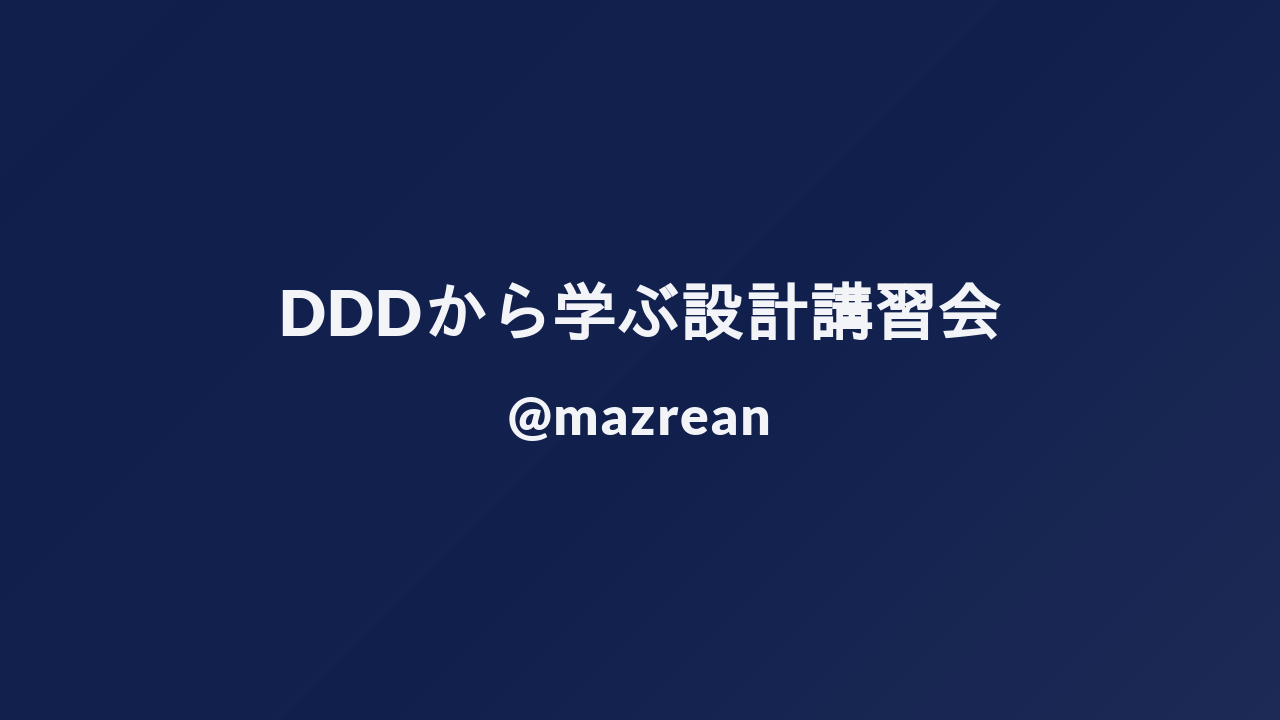
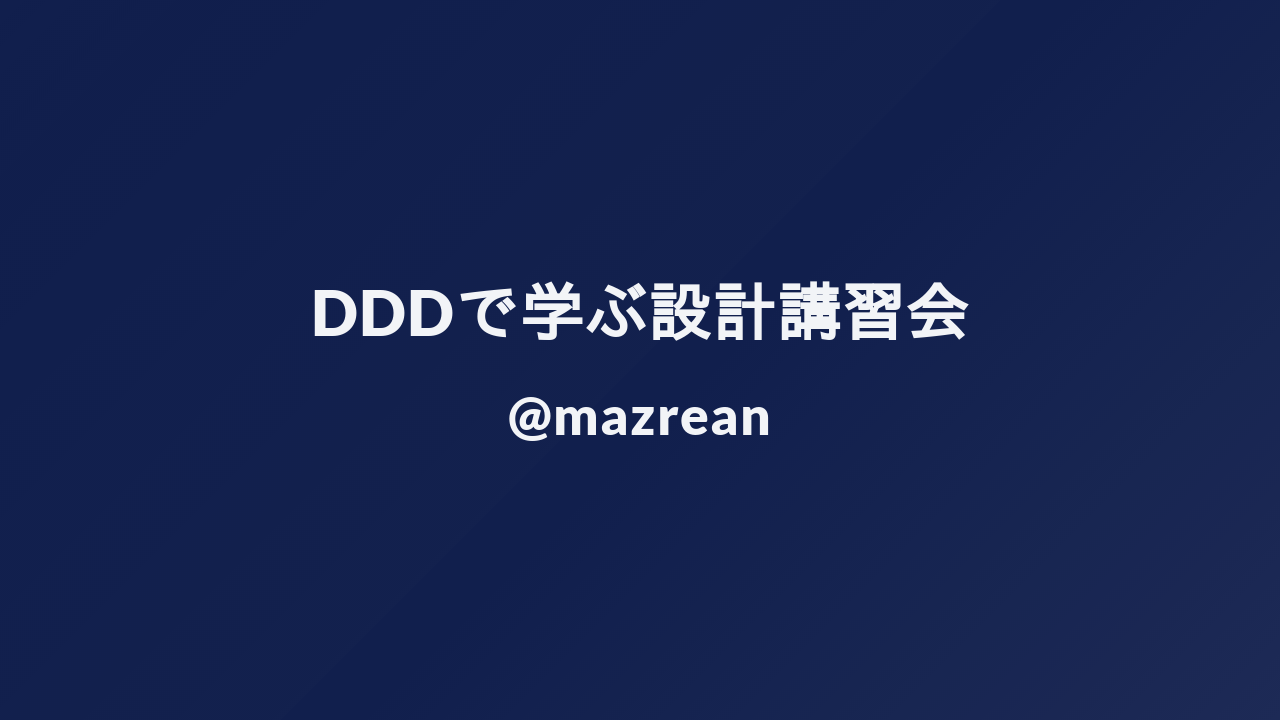
slide update

Changed region(s): [[0.2188, 0.3667, 0.7812, 0.4889]]

diff --git a/ddd/index.html b/ddd/index.html
@@ -9,7 +9,7 @@
  * @size 16:9 1280px 720px
  * @size 4:3 960px 720px
  */div#p>svg>foreignObject>section .hljs{background:#000;color:#f8f8f8;display:block;overflow-x:auto;padding:.5em}div#p>svg>foreignObject>section .hljs-comment,div#p>svg>foreignObject>section .hljs-quote{color:#aeaeae;font-style:italic}div#p>svg>foreignObject>section .hljs-keyword,div#p>svg>foreignObject>section .hljs-selector-tag,div#p>svg>foreignObject>section .hljs-type{color:#e28964}div#p>svg>foreignObject>section .hljs-string{color:#65b042}div#p>svg>foreignObject>section .hljs-subst{color:#daefa3}div#p>svg>foreignObject>section .hljs-link,div#p>svg>foreignObject>section .hljs-regexp{color:#e9c062}div#p>svg>foreignObject>section .hljs-name,div#p>svg>foreignObject>section .hljs-section,div#p>svg>foreignObject>section .hljs-tag,div#p>svg>foreignObject>section .hljs-title{color:#89bdff}div#p>svg>foreignObject>section .hljs-class .hljs-title,div#p>svg>foreignObject>section .hljs-doctag{text-decoration:underline}div#p>svg>foreignObject>section .hljs-bullet,div#p>svg>foreignObject>section .hljs-number,div#p>svg>foreignObject>section .hljs-symbol{color:#3387cc}div#p>svg>foreignObject>section .hljs-params,div#p>svg>foreignObject>section .hljs-template-variable,div#p>svg>foreignObject>section .hljs-variable{color:#3e87e3}div#p>svg>foreignObject>section .hljs-attribute{color:#cda869}div#p>svg>foreignObject>section .hljs-meta{color:#8996a8}div#p>svg>foreignObject>section .hljs-formula{background-color:#0e2231;color:#f8f8f8;font-style:italic}div#p>svg>foreignObject>section .hljs-addition{background-color:#253b22;color:#f8f8f8}div#p>svg>foreignObject>section .hljs-deletion{background-color:#420e09;color:#f8f8f8}div#p>svg>foreignObject>section .hljs-selector-class{color:#9b703f}div#p>svg>foreignObject>section .hljs-selector-id{color:#8b98ab}div#p>svg>foreignObject>section .hljs-emphasis{font-style:italic}div#p>svg>foreignObject>section .hljs-strong{font-weight:700}div#p>svg>foreignObject>section svg[data-marp-fitting=svg]{max-height:580px}div#p>svg>foreignObject>section h1,div#p>svg>foreignObject>section h2,div#p>svg>foreignObject>section h3,div#p>svg>foreignObject>section h4,div#p>svg>foreignObject>section h5,div#p>svg>foreignObject>section h6{margin:.5em 0 0}div#p>svg>foreignObject>section h1 strong,div#p>svg>foreignObject>section h2 strong,div#p>svg>foreignObject>section h3 strong,div#p>svg>foreignObject>section h4 strong,div#p>svg>foreignObject>section h5 strong,div#p>svg>foreignObject>section h6 strong{font-weight:inherit}div#p>svg>foreignObject>section h1{font-size:1.8em}div#p>svg>foreignObject>section h2{font-size:1.5em}div#p>svg>foreignObject>section h3{font-size:1.3em}div#p>svg>foreignObject>section h4{font-size:1.1em}div#p>svg>foreignObject>section h5{font-size:1em}div#p>svg>foreignObject>section h6{font-size:.9em}div#p>svg>foreignObject>section blockquote,div#p>svg>foreignObject>section p{margin:1em 0 0}div#p>svg>foreignObject>section ol>li,div#p>svg>foreignObject>section ul>li{margin:.3em 0 0}div#p>svg>foreignObject>section ol>li>p,div#p>svg>foreignObject>section ul>li>p{margin:.6em 0 0}div#p>svg>foreignObject>section code{display:inline-block;font-family:Roboto Mono,monospace;font-size:.8em;letter-spacing:0;margin:-.1em .15em;padding:.1em .2em;vertical-align:baseline}div#p>svg>foreignObject>section pre{display:block;margin:1em 0 0;min-height:1em;overflow:visible}div#p>svg>foreignObject>section pre code{box-sizing:border-box;font-size:.7em;margin:0;min-width:100%;padding:.5em}div#p>svg>foreignObject>section pre code svg[data-marp-fitting=svg]{max-height:calc(580px - 1em)}div#p>svg>foreignObject>section blockquote{margin:1em 0 0;padding:0 1em;position:relative}div#p>svg>foreignObject>section blockquote:after,div#p>svg>foreignObject>section blockquote:before{content:"“";display:block;font-family:Times New Roman,serif;font-weight:700;position:absolute}div#p>svg>foreignObject>section blockquote:before{left:0;top:0}div#p>svg>foreignObject>section blockquote:after{bottom:0;right:0;transform:rotate(180deg)}div#p>svg>foreignObject>section blockquote>:first-child{margin-top:0}div#p>svg>foreignObject>section mark{background:transparent}div#p>svg>foreignObject>section table{border-collapse:collapse;border-spacing:0;margin:1em 0 0}div#p>svg>foreignObject>section table td,div#p>svg>foreignObject>section table th{border-style:solid;border-width:1px;padding:.2em .4em}div#p>svg>foreignObject>section:after,div#p>svg>foreignObject>section footer,div#p>svg>foreignObject>section header{box-sizing:border-box;font-size:66%;height:70px;line-height:50px;overflow:hidden;padding:10px 25px;position:absolute}div#p>svg>foreignObject>section:after{--marpit-root-font-size:66%}div#p>svg>foreignObject>section header{top:0}div#p>svg>foreignObject>section footer,div#p>svg>foreignObject>section header{left:0;right:0}div#p>svg>foreignObject>section footer{bottom:0}div#p>svg>foreignObject>section{word-wrap:break-word;--color-background:#fff8e1;--color-background-stripe:rgba(69,90,100,0.1);--color-foreground:#455a64;--color-dimmed:#6a7a7d;--color-highlight:#0288d1;background-color:var(--color-background);background-image:linear-gradient(135deg,hsla(0,0%,53%,0),hsla(0,0%,53%,.02) 50%,hsla(0,0%,100%,0) 0,hsla(0,0%,100%,.05));color:var(--color-foreground);font-family:Lato,Avenir Next,Avenir,Trebuchet MS,Segoe UI,sans-serif;font-size:35px;height:720px;letter-spacing:1.25px;line-height:1.35;padding:70px;width:1280px}div#p>svg>foreignObject>section{--marpit-root-font-size:35px}div#p>svg>foreignObject>section:after{bottom:0;font-size:80%;right:0}div#p>svg>foreignObject>section:after{--marpit-root-font-size:80%}div#p>svg>foreignObject>section a,div#p>svg>foreignObject>section mark{color:var(--color-highlight)}div#p>svg>foreignObject>section code{background:var(--color-dimmed);color:var(--color-background)}div#p>svg>foreignObject>section h1 strong,div#p>svg>foreignObject>section h2 strong,div#p>svg>foreignObject>section h3 strong,div#p>svg>foreignObject>section h4 strong,div#p>svg>foreignObject>section h5 strong,div#p>svg>foreignObject>section h6 strong{color:var(--color-highlight)}div#p>svg>foreignObject>section pre>code{background:var(--color-foreground)}div#p>svg>foreignObject>section blockquote:after,div#p>svg>foreignObject>section blockquote:before,div#p>svg>foreignObject>section footer,div#p>svg>foreignObject>section header,div#p>svg>foreignObject>section section:after{color:var(--color-dimmed)}div#p>svg>foreignObject>section table td,div#p>svg>foreignObject>section table th{border-color:var(--color-foreground)}div#p>svg>foreignObject>section table thead th{background:var(--color-foreground);color:var(--color-background)}div#p>svg>foreignObject>section table tbody>tr:nth-child(odd) td,div#p>svg>foreignObject>section table tbody>tr:nth-child(odd) th{background:var(--color-background-stripe,transparent)}div#p>svg>foreignObject>section>:first-child,div#p>svg>foreignObject>section>header:first-child+*{margin-top:0}div#p>svg>foreignObject>section.invert{--color-background:#455a64;--color-background-stripe:rgba(255,248,225,0.1);--color-foreground:#fff8e1;--color-dimmed:#dad8c8;--color-highlight:#81d4fa}div#p>svg>foreignObject>section.gaia{--color-background:#0288d1;--color-background-stripe:rgba(255,248,225,0.1);--color-foreground:#fff8e1;--color-dimmed:#cce2de;--color-highlight:#81d4fa}div#p>svg>foreignObject>section.lead{display:flex;flex-direction:column;flex-wrap:nowrap;justify-content:center}div#p>svg>foreignObject>section.lead h1,div#p>svg>foreignObject>section.lead h2,div#p>svg>foreignObject>section.lead h3,div#p>svg>foreignObject>section.lead h4,div#p>svg>foreignObject>section.lead h5,div#p>svg>foreignObject>section.lead h6{text-align:center}div#p>svg>foreignObject>section.lead h1 svg[data-marp-fitting=svg],div#p>svg>foreignObject>section.lead h2 svg[data-marp-fitting=svg],div#p>svg>foreignObject>section.lead h3 svg[data-marp-fitting=svg],div#p>svg>foreignObject>section.lead h4 svg[data-marp-fitting=svg],div#p>svg>foreignObject>section.lead h5 svg[data-marp-fitting=svg],div#p>svg>foreignObject>section.lead h6 svg[data-marp-fitting=svg]{--preserve-aspect-ratio:xMidYMid meet}div#p>svg>foreignObject>section.lead p{text-align:center}div#p>svg>foreignObject>section.lead blockquote>h1,div#p>svg>foreignObject>section.lead blockquote>h2,div#p>svg>foreignObject>section.lead blockquote>h3,div#p>svg>foreignObject>section.lead blockquote>h4,div#p>svg>foreignObject>section.lead blockquote>h5,div#p>svg>foreignObject>section.lead blockquote>h6,div#p>svg>foreignObject>section.lead blockquote>p{text-align:left}div#p>svg>foreignObject>section.lead blockquote svg[data-marp-fitting=svg]:not([data-marp-fitting-math]){--preserve-aspect-ratio:xMinYMin meet}div#p>svg>foreignObject>section.lead ol>li>p,div#p>svg>foreignObject>section.lead ul>li>p{text-align:left}div#p>svg>foreignObject>section.lead table{margin-left:auto;margin-right:auto}div#p>svg>foreignObject>section:not(a){--color-background:#f2f4f7;--color-foreground:#111f4d;--color-highlight:rgba(17,31,77,0.5);--color-dimmed:#757575}div#p>svg>foreignObject>section:not(a).invert{--color-background:#111f4d;--color-foreground:#f2f4f7;--color-highlight:rgba(17,31,77,0.5);--color-dimmed:#757575}div#p>svg>foreignObject>section .gist{height:400px!important}div#p>svg>foreignObject>section .gist-file .gist-data{max-height:400px;overflow-y:visible}div#p>svg>foreignObject>section[data-marpit-advanced-background=background]{columns:initial!important;display:block!important;padding:0!important}div#p>svg>foreignObject>section[data-marpit-advanced-background=background]:after,div#p>svg>foreignObject>section[data-marpit-advanced-background=background]:before,div#p>svg>foreignObject>section[data-marpit-advanced-background=content]:after,div#p>svg>foreignObject>section[data-marpit-advanced-background=content]:before{display:none!important}div#p>svg>foreignObject>section[data-marpit-advanced-background=background]>div[data-marpit-advanced-background-container]{all:initial;display:flex;flex-direction:row;height:100%;overflow:hidden;width:100%}div#p>svg>foreignObject>section[data-marpit-advanced-background=background]>div[data-marpit-advanced-background-container][data-marpit-advanced-background-direction=vertical]{flex-direction:column}div#p>svg>foreignObject>section[data-marpit-advanced-background=background][data-marpit-advanced-background-split]>div[data-marpit-advanced-background-container]{width:var(--marpit-advanced-background-split,50%)}div#p>svg>foreignObject>section[data-marpit-advanced-background=background][data-marpit-advanced-background-split=right]>div[data-marpit-advanced-background-container]{margin-left:calc(100% - var(--marpit-advanced-background-split, 50%))}div#p>svg>foreignObject>section[data-marpit-advanced-background=background]>div[data-marpit-advanced-background-container]>figure{all:initial;background-position:center;background-repeat:no-repeat;background-size:cover;flex:auto;margin:0}div#p>svg>foreignObject>section[data-marpit-advanced-background=content],div#p>svg>foreignObject>section[data-marpit-advanced-background=pseudo]{background:transparent!important}div#p>svg>foreignObject>section[data-marpit-advanced-background=pseudo],div#p>svg[data-marpit-svg]>foreignObject[data-marpit-advanced-background=pseudo]{pointer-events:none!important}div#p>svg>foreignObject>section[data-marpit-advanced-background-split]{width:100%;height:100%}</style></head><body><div class="bespoke-marp-osc"><button data-bespoke-marp-osc="prev" tabindex="-1" title="Previous slide">Previous slide</button><span data-bespoke-marp-osc="page"></span><button data-bespoke-marp-osc="next" tabindex="-1" title="Next slide">Next slide</button><button data-bespoke-marp-osc="fullscreen" tabindex="-1" title="Toggle fullscreen (f)">Toggle fullscreen</button><button data-bespoke-marp-osc="presenter" tabindex="-1" title="Open presenter view (p)">Open presenter view</button></div><div id="p"><svg data-marpit-svg="" viewBox="0 0 1280 720"><foreignObject width="1280" height="720"><section id="1" data-class="invert lead" data-theme="gaia" class="invert lead" style="--class:invert lead;--theme:gaia;">
-<h1>DDDから学ぶ設計講習会</h1>
+<h1>DDDで学ぶ設計講習会</h1>
 <h2>@mazrean</h2>
 </section>
 </foreignObject></svg><svg data-marpit-svg="" viewBox="0 0 1280 720"><foreignObject width="1280" height="720"><section id="2" data-paginate="true" data-theme="gaia" data-marpit-pagination="2" data-marpit-pagination-total="56" style="--paginate:true;--theme:gaia;">
